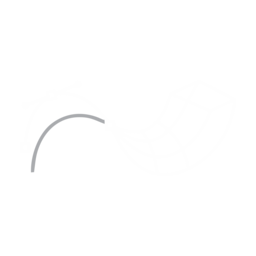
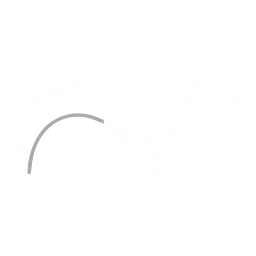
Ícone principal quadrado em 10 tamanhos (16 a 256), arte centralizada sem distorção
O PathToMash-icon.ico tinha só uma imagem (PNG 256x256). Agora tem 16, 20, 24,
32, 40, 48, 64, 96, 128 (BMP 32 bits) e 256 (PNG), gerados do 3.png (a mesma
arte em 1757x784). A arte fica centralizada, com a proporção original (2,24:1),
as sobras transparentes e uma margem de 1/16. O PathToMash-icon.png é o 256 novo.
O nome do arquivo é o mesmo, então as referências não mudam.

Changed region(s): [[0.0938, 0.4375, 0.3125, 0.6875]]

diff --git a/assets/icones/README.md b/assets/icones/README.md
@@ -2,7 +2,7 @@
 
 | Arquivo | Imagem | Onde é usado |
 | --- | --- | --- |
-| `PathToMash-icon.ico` / `PathToMash-icon.png` | Ícone do PathToMesh (256x256) | **Ícone principal**: barra de título e barra de tarefas de todas as janelas (app web, app Tk de reserva, launcher, configurações e mensagens), atalhos (Área de Trabalho e Menu Iniciar) e instalador. O `.png` é a imagem de 256 px tirada de dentro do `.ico` (reserva para o `iconphoto`) |
+| `PathToMash-icon.ico` / `PathToMash-icon.png` | Ícone do PathToMesh (quadrado: 16, 20, 24, 32, 40, 48, 64, 96, 128 e 256 px) | **Ícone principal**: barra de título e barra de tarefas de todas as janelas (app web, app Tk de reserva, launcher, configurações e mensagens), atalhos (Área de Trabalho e Menu Iniciar) e instalador. O `.png` é a imagem de 256 px do `.ico` (reserva para o `iconphoto`) |
 | `1.png` (`1_cabecalho.png`) | Símbolo com "PathToMesh" embaixo | **Logo do cabeçalho**: canto superior esquerdo do app e do launcher, no lugar do nome digitado (o nome fica só no título da janela) |
 | `2.png` (`2_cabecalho.png`) | Símbolo + "PathToMesh" na horizontal | **Logo da janela larga**: substitui o 1 no cabeçalho quando a janela passa de 1200 px de largura (ex.: maximizada) |
 
@@ -10,5 +10,6 @@
 - `1_cabecalho.png` (93x46) e `2_cabecalho.png` (185x34) são o `1.png` e o `2.png` já reduzidos para a barra de 56 px (média por área, melhor que reduzir na hora). Se você trocar o `1.png` ou o `2.png`, gere de novo esses dois (ou apague-os: aí o app reduz o `.png` grande na hora, com qualidade menor).
 - `1.ico` e `2.ico` não são usados pelo código; ficam como reserva.
 - `3.ico` e `3.png` (só o símbolo, o ícone principal antigo) não são mais usados pelo código; ficam como reserva.
-- Se você trocar o `PathToMash-icon.ico`, gere de novo o `PathToMash-icon.png` (a imagem maior do `.ico`).
+- O `PathToMash-icon.ico` foi gerado a partir do `3.png` (a mesma arte, em 1757x784): a arte fica centralizada num quadrado, com a proporção original, as sobras transparentes e uma margem de 1/16 do lado em cada borda. Os tamanhos até 128 px ficam em BMP de 32 bits e o de 256 px em PNG. Como a arte é larga (cerca de 2,24:1), ela ocupa só a faixa do meio do quadrado, e isso é esperado: esticar para preencher o quadrado distorceria o desenho.
+- Se você trocar o `PathToMash-icon.ico`, gere de novo o `PathToMash-icon.png` (a imagem de 256 px do `.ico`), sempre quadrados.
 - As escolhas ficam em `ICONES`, `LOGOS`, `LARGURA_LOGO_LARGO` e `ALTURA_LOGO`, no `tema_janela.py`.
